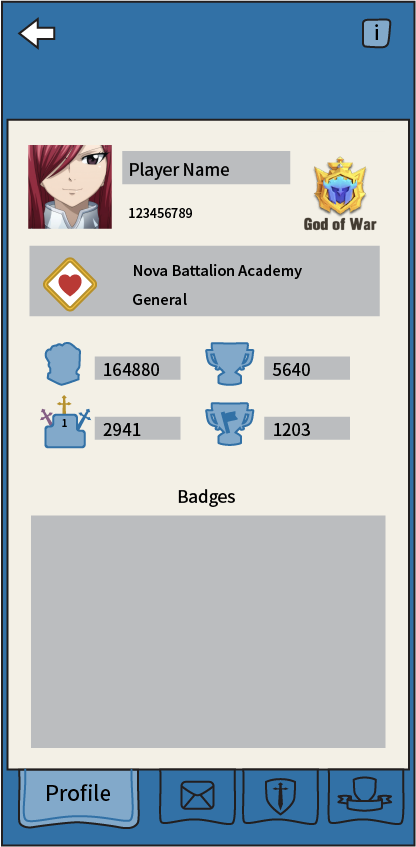
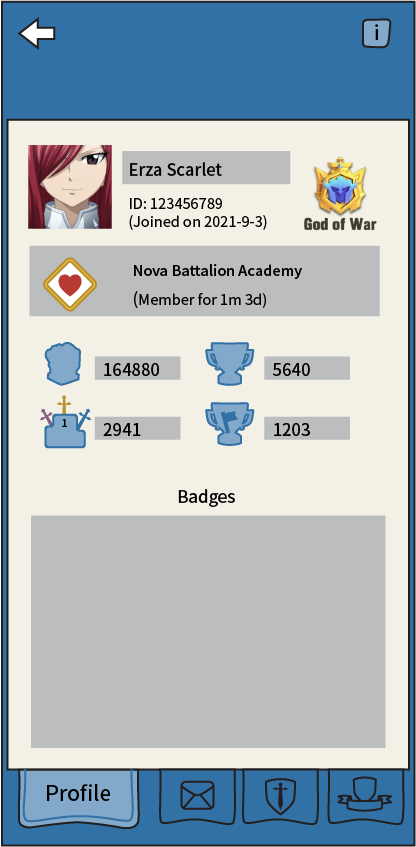
.

Changed region(s): [[0.3125, 0.1842, 0.6562, 0.2763], [0.3125, 0.3377, 0.6562, 0.3684]]

diff --git a/index.md b/index.md
@@ -62,6 +62,18 @@ Similar suggestion by
 
 ----
 
+## User Interface - Profiles
+
+* Add starting date to commander profile
+* Add join dates of members to guild [profile](structure/profiles)
+
+[Main suggestion by Slutzie](https://discord.com/channels/658594298983350293/659077000027308104/931971155345162260)
+> Please add starting date to profiles. Would be great to see how long
+> each players has been playing. Also, would be great to know my own
+> starting date.
+
+----
+
 ## User Interface - Clan Battles
 
 [Main suggestion](https://discord.com/channels/658594298983350293/659077000027308104/932544473815207986)
@@ -93,6 +105,14 @@ Similar suggestion by
 > You're only showing the first 200 players in a game played by thousands.
 > The least you can do is show us the current DMG done by the player at
 > each of the thresholds for rewards. 500,1000,2500,etc.
+
+----
+
+## User Interface - Visual Effect
+
+[Main suggestion by kuroneko](https://discord.com/channels/658594298983350293/659077000027308104/932097182708924466)
+
+> Give me an option to cut the lengthy animation effects when fusing soldiers.
 
 ----
 
